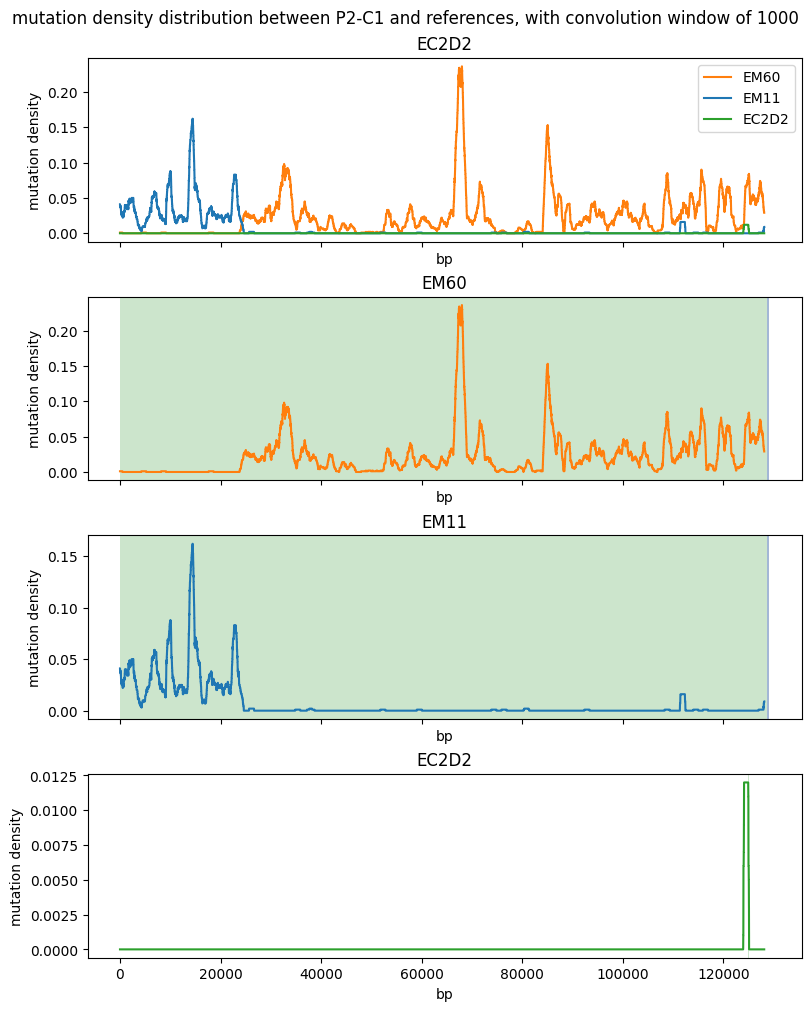
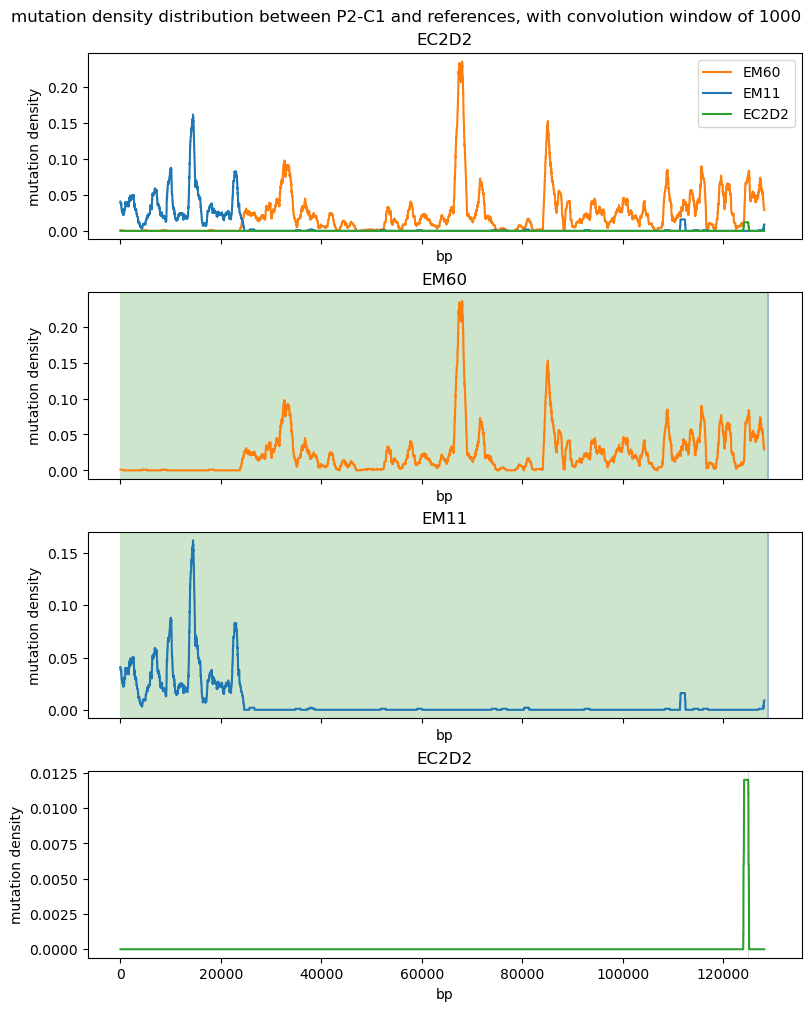
mutation_density works

diff --git a/scripts/mutation_densisty.py b/scripts/mutation_densisty.py
@@ -46,11 +46,13 @@ if __name__ == "__main__":
     
     populations=['P2','P3']
     isolates=['C1','C2','C3','C4']
-    k=1000
+    k=1000 #convolution window
 
+    #set some estetic parameters for the plots
     phage_colors={'EC2D2':'C2','EM11':'C0','EM60':'C1'}
     mapping_colors={'primary':'g','supplementary':'b','secondary':'r'}
 
+    #plot the clone assemblies mutation density
     for population in populations:
         for isolate in isolates:
             
@@ -62,6 +64,7 @@ if __name__ == "__main__":
 
             plot_mappings(mismatch_distribution, mapping, population, isolate, k, out_folder)
 
+    #plot the mutation density between reference genomes
     for reference in mismatch_distribution.keys():
         
         ref_file=f'data/references/{reference}_assembly.fasta'
